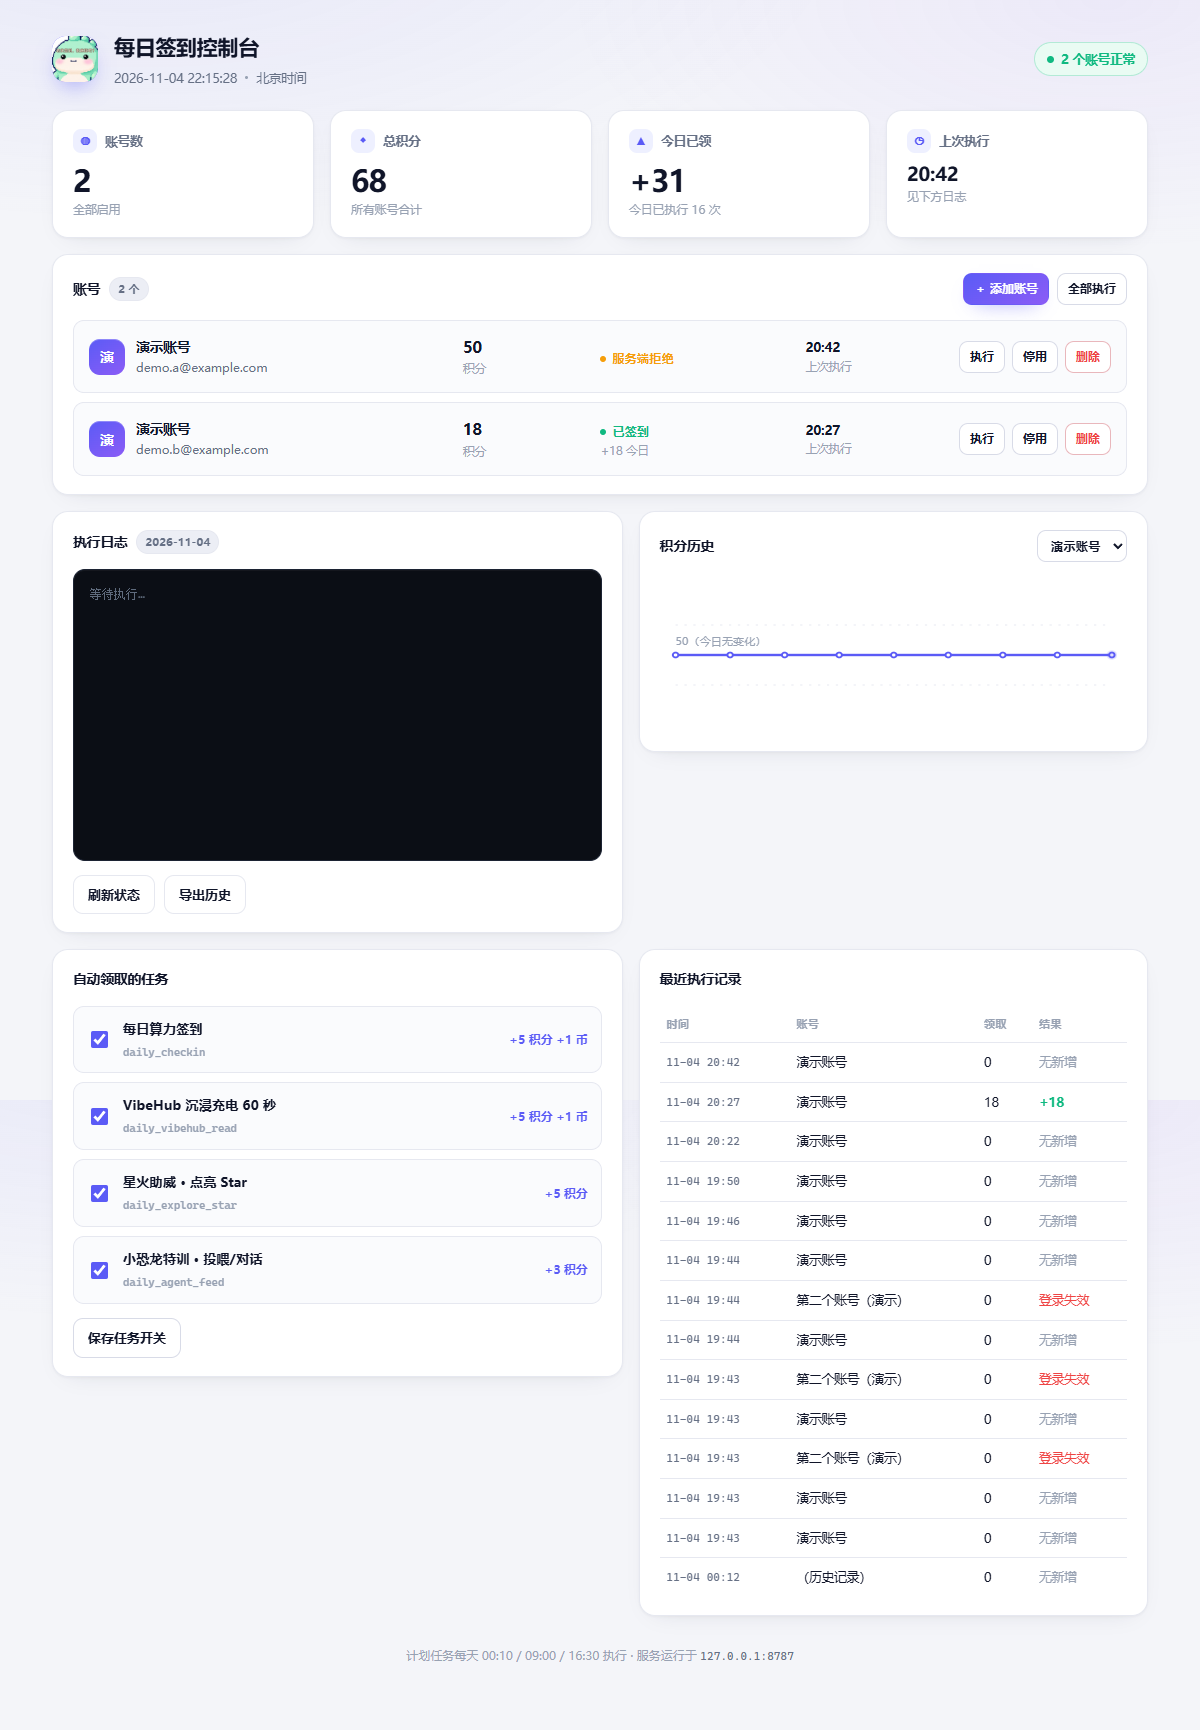
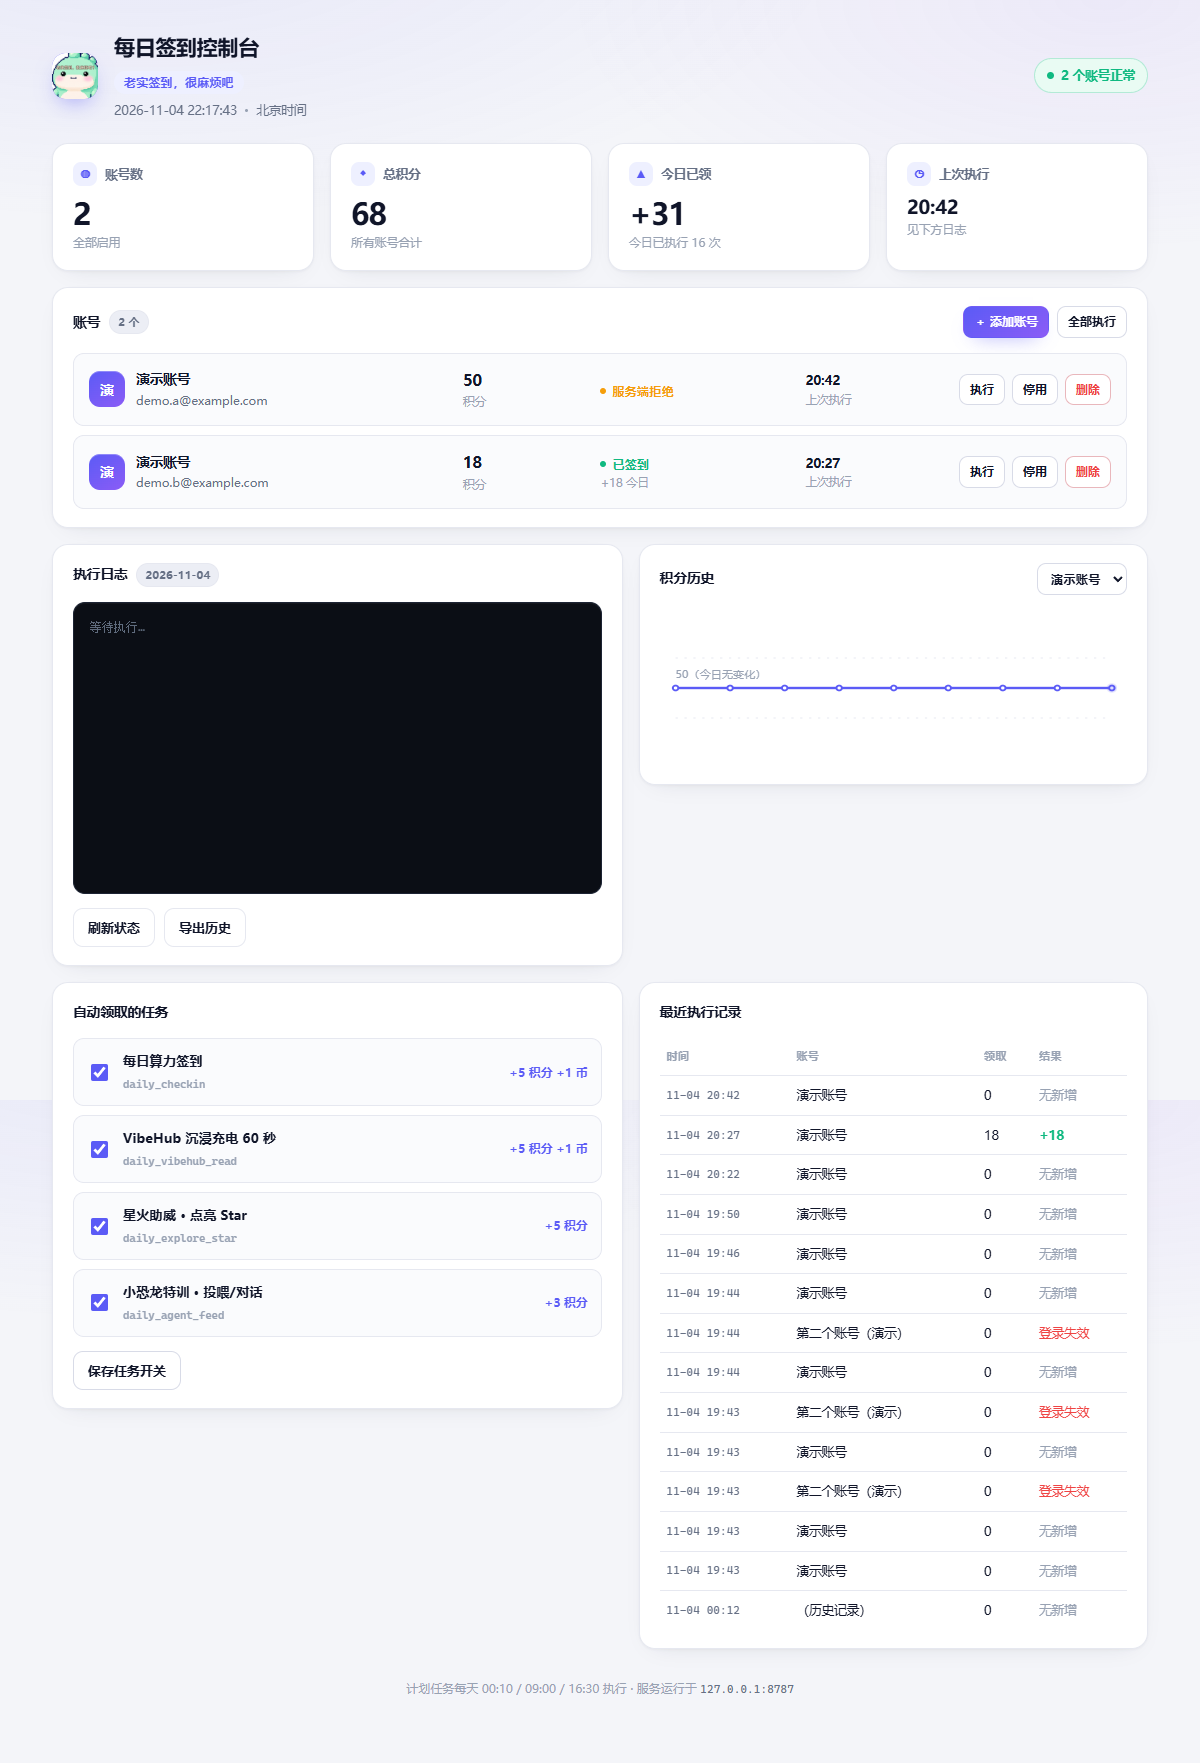
feat: 界面加上「老实签到，很麻烦吧」标语

diff --git a/ui.html b/ui.html
@@ -86,7 +86,13 @@
   }
   .mark img { width: 100%; height: 100%; object-fit: cover; display: block; }
   .hero h1 { font-size: 21px; margin: 0; font-weight: 720; letter-spacing: -.3px; }
-  .hero .meta { display: flex; align-items: center; gap: 8px; margin-top: 3px; }
+  .slogan {
+    display: inline-block; margin-top: 6px;
+    padding: 2px 10px; border-radius: 999px;
+    background: var(--brand-soft); color: var(--brand);
+    font-size: 12px; font-weight: 620; letter-spacing: .2px;
+  }
+  .hero .meta { display: flex; align-items: center; gap: 8px; margin-top: 6px; }
   .hero .meta span { color: var(--ink-2); font-size: 12.5px; }
   .dot-sep { width: 3px; height: 3px; border-radius: 50%; background: var(--ink-3); display: inline-block; }
   .grow { flex: 1; }
@@ -308,6 +314,7 @@
[1 lines of base64/hex data omitted]
     <div>
       <h1>每日签到控制台</h1>
+      <div class="slogan">老实签到，很麻烦吧</div>
       <div class="meta">
         <span id="clockLine">加载中…</span>
         <i class="dot-sep"></i>
